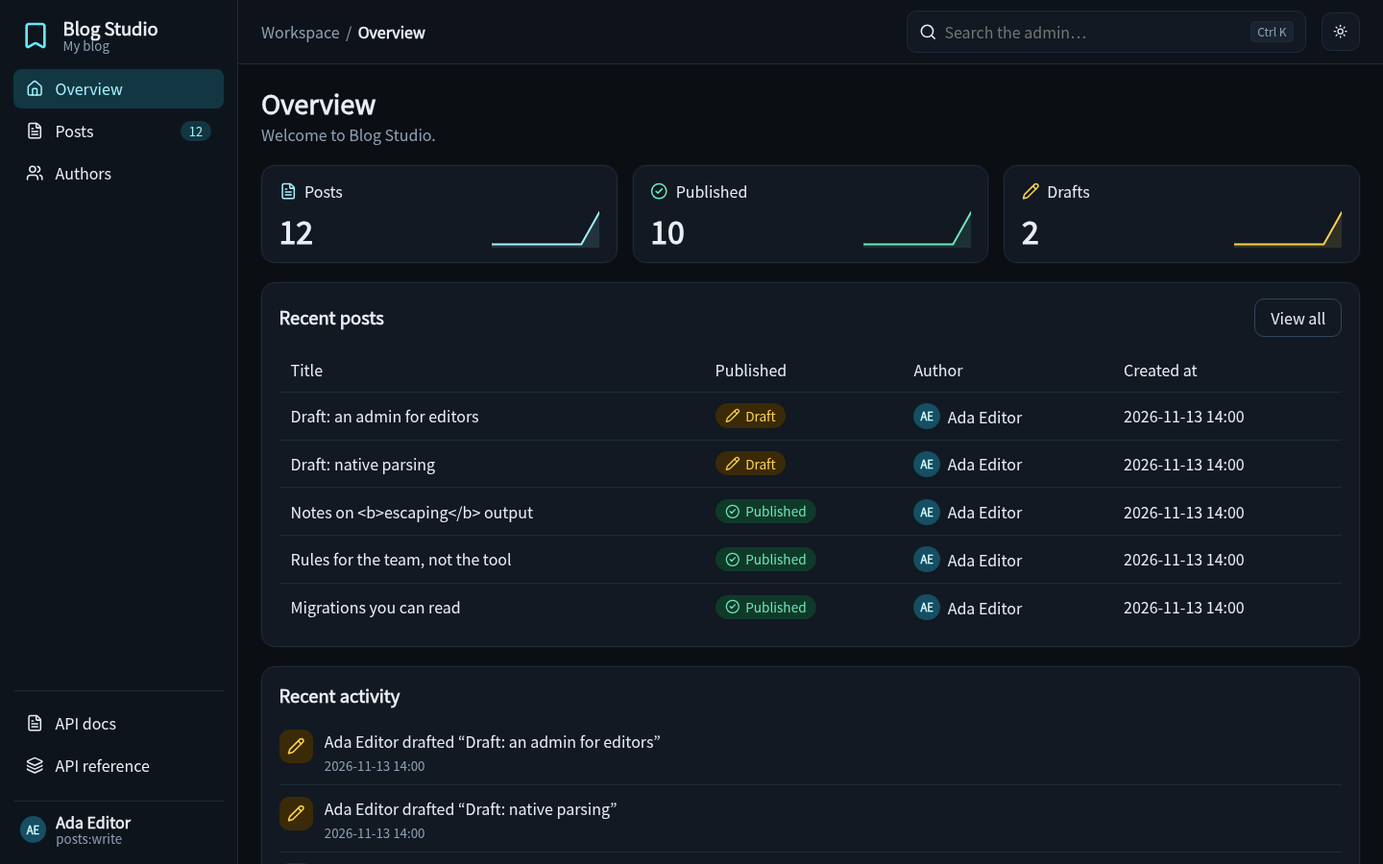
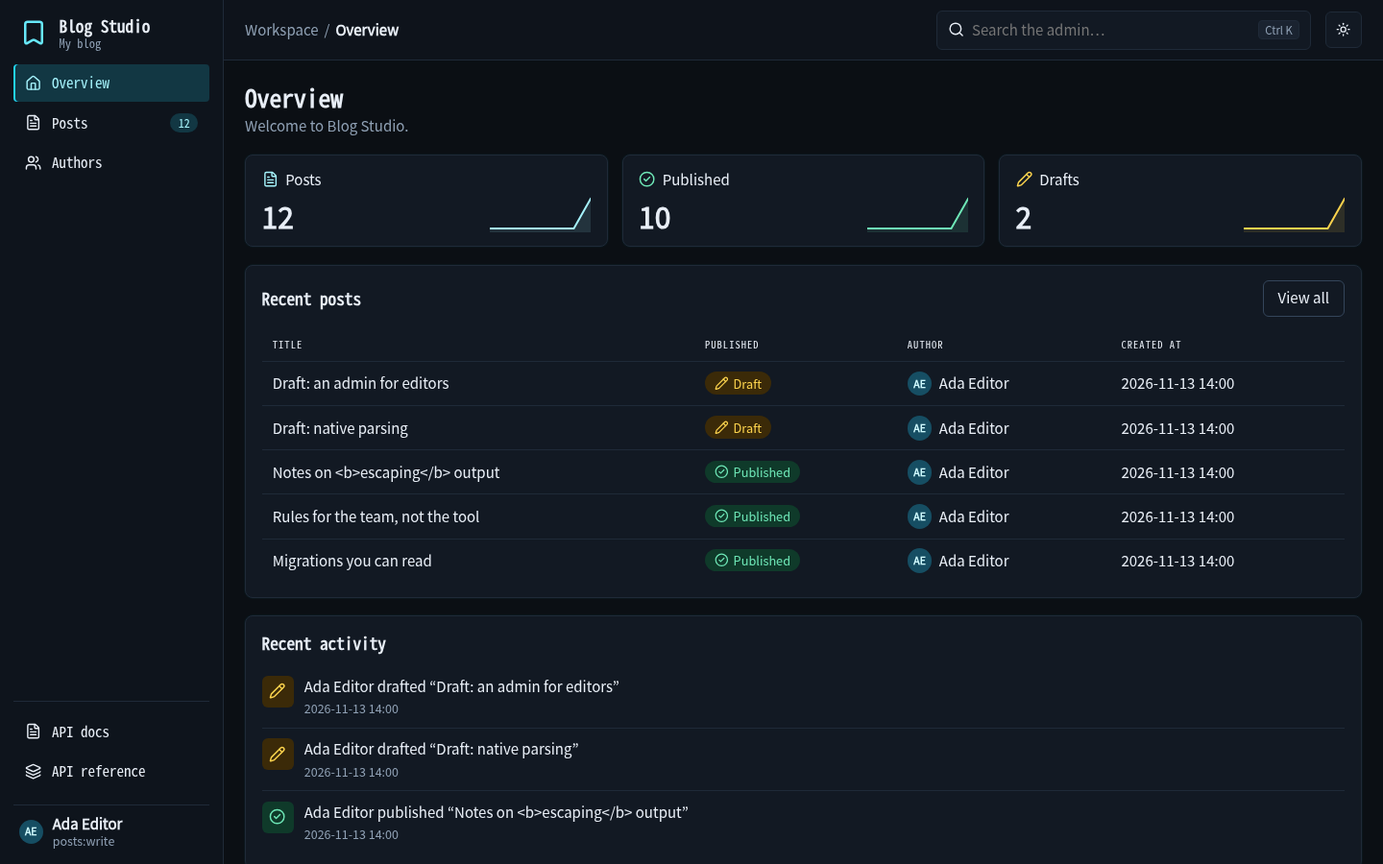
feat(admin): three distinct themes (Studio, Midnight, Paper) with measured contrast
Classic and Compact looked too much like Django's admin; Paper (warm
editorial, serif, hairlines) replaces them and Midnight gets its own
type and shape. tests/themecontrasttest.py checks WCAG AA for every
token pair in every theme and scheme.

diff --git a/python/hinoki/admin/themes.py b/python/hinoki/admin/themes.py
@@ -6,7 +6,9 @@ for a light and a dark scheme (plus optional extra CSS). ``edit`` chooses where
 the edit form opens: ``"drawer"`` (beside the list) or ``"page"``.
 A theme whose ``default_mode`` is ``"dark"`` is dark unless the user switches.
 
-Built in: ``studio`` (default), ``classic``, ``compact``, ``midnight``.
+Built in, three deliberately different looks: ``studio`` (default: soft violet,
+rounded, edit drawer), ``midnight`` (dark, neon cyan, monospaced labels) and
+``paper`` (warm editorial: serif headings, terracotta, hairlines, edit page).
 To make your own, build a ``Theme`` and pass it as ``Admin(theme=...)``.
 """
 
@@ -107,7 +109,7 @@ STUDIO_DARK = {
     "danger": "#ff8a8a", "danger-on": "#2a0b0b", "danger-bg": "#43191b", "danger-ink": "#ffb0b0",
     "focus": "#79b8ff", "avatar-bg": "#4a3380", "avatar-ink": "#e9defb", "shadow": "none",
 }  # fmt: skip
-CLASSIC_LIGHT = {
+NEUTRAL_LIGHT = {
     "bg": "#f4f5f7", "surface": "#ffffff", "surface-2": "#eceef1", "sidebar-bg": "#ffffff",
     "topbar-bg": "#ffffff", "text": "#1c2430", "muted": "#566070", "line": "#dde1e6",
     "line-strong": "#b8c0ca", "hover": "#f0f2f5", "accent": "#1f5fa8", "accent-hover": "#174a85",
@@ -117,28 +119,25 @@ CLASSIC_LIGHT = {
     "danger-ink": "#912018", "focus": "#1a73e8", "avatar-bg": "#c5d6ea", "avatar-ink": "#17406e",
     "shadow": "none",
 }  # fmt: skip
-CLASSIC_DARK = {
-    "bg": "#12161c", "surface": "#1a2029", "surface-2": "#222a35", "sidebar-bg": "#1a2029",
-    "topbar-bg": "#1a2029", "text": "#e6eaf0", "muted": "#9aa5b4", "line": "#2c3542",
-    "line-strong": "#425063", "hover": "#202833", "accent": "#6aa7ea", "accent-hover": "#8fbdf2",
-    "accent-ink": "#08203a", "accent-text": "#8fbdf2", "accent-soft": "#1f3552",
-    "accent-soft-ink": "#cfe3fb", "ok-bg": "#153a26", "ok-ink": "#86e0a8", "warn-bg": "#3a2b0c",
-    "warn-ink": "#f2c46e", "danger": "#f28b82", "danger-on": "#3a0d0a", "danger-bg": "#411a17",
-    "danger-ink": "#ffb4ac", "focus": "#8ab4f8", "avatar-bg": "#2f4f7a", "avatar-ink": "#d6e6fb",
+PAPER_LIGHT = {
+    "bg": "#f6f0e4", "surface": "#fffdf8", "surface-2": "#efe7d6", "sidebar-bg": "#efe6d3",
+    "topbar-bg": "#f6f0e4", "text": "#2b2118", "muted": "#6b5a47", "line": "#ddd0b8",
+    "line-strong": "#b9a888", "hover": "#ede3cf", "accent": "#b4441f", "accent-hover": "#963716",
+    "accent-ink": "#ffffff", "accent-text": "#963716", "accent-soft": "#f4dccf",
+    "accent-soft-ink": "#7a2c10", "ok-bg": "#e1ecd2", "ok-ink": "#2f5a14", "warn-bg": "#f6e3b4",
+    "warn-ink": "#6b4300", "danger": "#a82020", "danger-on": "#ffffff", "danger-bg": "#f8dcd6",
+    "danger-ink": "#8a1a1a", "focus": "#1d4ed8", "avatar-bg": "#e3c4a8", "avatar-ink": "#6a2a10",
     "shadow": "none",
 }  # fmt: skip
-COMPACT_LIGHT = {
-    **CLASSIC_LIGHT, "bg": "#f2f5f5", "surface-2": "#e8eeee", "line": "#d8e0e0",
-    "line-strong": "#b4c2c2", "hover": "#eaf1f1", "accent": "#0f766e", "accent-hover": "#0b5f58",
-    "accent-text": "#0b5f58", "accent-soft": "#d3ece9", "accent-soft-ink": "#0b4f49",
-    "avatar-bg": "#b8dedb", "avatar-ink": "#0b4f49",
-}  # fmt: skip
-COMPACT_DARK = {
-    **CLASSIC_DARK, "bg": "#0f1616", "surface": "#162020", "surface-2": "#1d2a2a",
-    "sidebar-bg": "#162020", "topbar-bg": "#162020", "line": "#263636", "line-strong": "#3a5252",
-    "hover": "#1b2929", "accent": "#4fd1c5", "accent-hover": "#7ee3d9", "accent-ink": "#06201d",
-    "accent-text": "#7ee3d9", "accent-soft": "#17403c", "accent-soft-ink": "#c4f1ec",
-    "avatar-bg": "#1f5a54", "avatar-ink": "#d3f5f1",
+PAPER_DARK = {
+    "bg": "#1d1812", "surface": "#26201a", "surface-2": "#302820", "sidebar-bg": "#221c16",
+    "topbar-bg": "#1d1812", "text": "#f1e8d8", "muted": "#b7a88f", "line": "#3b3227",
+    "line-strong": "#54483a", "hover": "#2d251d", "accent": "#e9895f", "accent-hover": "#f1a07d",
+    "accent-ink": "#2a1206", "accent-text": "#f1a07d", "accent-soft": "#4a2a1b",
+    "accent-soft-ink": "#f7d2bf", "ok-bg": "#20331a", "ok-ink": "#a6d98a", "warn-bg": "#3d2e10",
+    "warn-ink": "#f0cb7a", "danger": "#f19a8e", "danger-on": "#330c08", "danger-bg": "#46201b",
+    "danger-ink": "#ffc0b6", "focus": "#8ab4f8", "avatar-bg": "#6a3b24", "avatar-ink": "#f7d9c6",
+    "shadow": "none",
 }  # fmt: skip
 MIDNIGHT_DARK = {
     "bg": "#0b0f14", "surface": "#121923", "surface-2": "#1a2330", "sidebar-bg": "#0e141c",
@@ -151,7 +150,7 @@ MIDNIGHT_DARK = {
     "shadow": "0 0 0 1px rgba(34,211,238,.04)",
 }  # fmt: skip
 MIDNIGHT_LIGHT = {
-    **CLASSIC_LIGHT, "bg": "#eef3f8", "sidebar-bg": "#0e141c", "accent": "#0e7490",
+    **NEUTRAL_LIGHT, "bg": "#eef3f8", "sidebar-bg": "#e3eaf2", "accent": "#0e7490",
     "accent-hover": "#155e75", "accent-text": "#155e75", "accent-soft": "#cdeff7",
     "accent-soft-ink": "#0b4a5c", "avatar-bg": "#b6e3ee", "avatar-ink": "#0b4a5c",
 }  # fmt: skip
@@ -165,40 +164,39 @@ STUDIO = Theme(
     },
     extra_css=".hn-avatar{width:2rem;height:2rem;font-size:.75rem}\n.hn-nav-item{font-weight:500}\n",
 )  # fmt: skip
-CLASSIC = Theme(
-    "classic", "Classic", "page", CLASSIC_LIGHT, CLASSIC_DARK,
+PAPER = Theme(
+    "paper", "Paper", "page", PAPER_LIGHT, PAPER_DARK,
     {
-        "font": SYSTEM_FONT, "font-size": "16px", "radius": "4px", "radius-sm": "3px",
-        "radius-lg": "4px", "nav-pad": ".5rem .75rem", "cell-pad": ".6rem .75rem",
-        "h1": "1.5rem", "sidebar-w": "15rem", "drawer-w": "26rem",
-    },
-    extra_css=".hn-card{box-shadow:none}\n.hn-table th{background:var(--hn-surface-2)}\n",
-)  # fmt: skip
-COMPACT = Theme(
-    "compact", "Compact", "page", COMPACT_LIGHT, COMPACT_DARK,
-    {
-        "font": SYSTEM_FONT, "font-size": "14px", "radius": "3px", "radius-sm": "2px",
-        "radius-lg": "3px", "nav-pad": ".35rem .6rem", "cell-pad": ".3rem .6rem",
-        "h1": "1.3rem", "sidebar-w": "12.5rem", "drawer-w": "22rem",
+        "font": SYSTEM_FONT, "font-size": "16px", "radius": "2px", "radius-sm": "2px",
+        "radius-lg": "2px", "nav-pad": ".5rem .9rem", "cell-pad": ".75rem .9rem",
+        "h1": "2.1rem", "sidebar-w": "15rem", "drawer-w": "26rem",
     },
     extra_css=(
-        ".hn-table tbody tr:nth-child(even){background:var(--hn-surface-2)}\n"
-        ".hn-main{padding:1rem;gap:.9rem}\n.hn-btn{min-height:2rem;padding:.25rem .7rem}\n"
-        ".hn-iconbtn{width:2rem;height:2rem}\n.hn-stat-value{font-size:1.5rem}\n"
+        'h1,h2,h3,.hn-brand{font-family:Georgia,"Iowan Old Style","Times New Roman",serif;'
+        "font-weight:600;letter-spacing:-.01em}\n"
+        ".hn-card{box-shadow:none;border-width:1px 0}\n"
+        ".hn-table th{text-transform:uppercase;font-size:.72rem;letter-spacing:.08em;"
+        "background:transparent;border-bottom:2px solid var(--hn-line-strong)}\n"
     ),
 )  # fmt: skip
 MIDNIGHT = Theme(
     "midnight", "Midnight", "drawer", MIDNIGHT_LIGHT, MIDNIGHT_DARK,
     {
-        "font": SYSTEM_FONT, "font-size": "16px", "radius": "10px", "radius-sm": "8px",
-        "radius-lg": "14px", "nav-pad": ".55rem .8rem", "cell-pad": ".65rem .75rem",
+        "font": SYSTEM_FONT, "font-size": "15px", "radius": "6px", "radius-sm": "4px",
+        "radius-lg": "8px", "nav-pad": ".55rem .8rem", "cell-pad": ".65rem .75rem",
         "h1": "1.7rem", "sidebar-w": "15.5rem", "drawer-w": "25rem",
     },
     default_mode="dark",
-    extra_css=".hn-primary{box-shadow:0 0 18px rgba(34,211,238,.25)}\n",
+    extra_css=(
+        ".hn-primary{box-shadow:0 0 18px rgba(34,211,238,.25)}\n"
+        'h1,h2,h3,.hn-brand,.hn-table th,.hn-nav-item{font-family:ui-monospace,"JetBrains Mono",'
+        "Menlo,Consolas,monospace}\n"
+        ".hn-table th{text-transform:uppercase;font-size:.7rem;letter-spacing:.1em}\n"
+        ".hn-nav-item[aria-current=page]{box-shadow:inset 2px 0 var(--hn-accent)}\n"
+    ),
 )  # fmt: skip
 
-THEMES: dict[str, Theme] = {t.name: t for t in (STUDIO, CLASSIC, COMPACT, MIDNIGHT)}
+THEMES: dict[str, Theme] = {t.name: t for t in (STUDIO, MIDNIGHT, PAPER)}
 for built_in in THEMES.values():
     built_in.check()
 

diff --git a/tests/themecontrasttest.py b/tests/themecontrasttest.py
@@ -1,0 +1,60 @@
+"""WCAG contrast of every theme's text/background pairs, light and dark."""
+
+import re
+
+import pytest
+
+from hinoki.admin.themes import THEMES, Theme
+
+AA = 4.5
+HEX = re.compile(r"#[0-9a-fA-F]{6}")
+PAIRS = [
+    ("text", "bg"), ("text", "surface"), ("text", "surface-2"), ("text", "sidebar-bg"),
+    ("text", "hover"), ("muted", "bg"), ("muted", "surface"), ("muted", "sidebar-bg"),
+    ("accent-ink", "accent"), ("accent-ink", "accent-hover"), ("accent-text", "bg"),
+    ("accent-text", "surface"), ("accent-soft-ink", "accent-soft"),
+    ("ok-ink", "ok-bg"), ("warn-ink", "warn-bg"), ("danger-ink", "danger-bg"),
+    ("danger-on", "danger"), ("avatar-ink", "avatar-bg"), ("text", "accent-soft"),
+]  # fmt: skip
+
+
+def luminance(color: str) -> float:
+    channels = [int(color[i : i + 2], 16) / 255 for i in (1, 3, 5)]
+    linear = [
+        c / 12.92 if c <= 0.03928 else ((c + 0.055) / 1.055) ** 2.4 for c in channels
+    ]
+    return 0.2126 * linear[0] + 0.7152 * linear[1] + 0.0722 * linear[2]
+
+
+def contrast(a: str, b: str) -> float:
+    high, low = sorted((luminance(a), luminance(b)), reverse=True)
+    return (high + 0.05) / (low + 0.05)
+
+
+def colors(value: str) -> list[str]:
+    """The hex colours in a token (a gradient has several stops)."""
+    return HEX.findall(value)
+
+
+def failures(theme: Theme, scheme: str) -> list[str]:
+    tokens = theme.light if scheme == "light" else theme.dark
+    found = []
+    for foreground, background in PAIRS:
+        for fg in colors(tokens[foreground]):
+            for bg in colors(tokens[background]):
+                ratio = contrast(fg, bg)
+                if ratio < AA:
+                    found.append(f"{foreground} {fg} on {background} {bg}: {ratio:.2f}")
+    return found
+
+
+@pytest.mark.parametrize("scheme", ["light", "dark"])
+@pytest.mark.parametrize("name", sorted(THEMES))
+def test_every_pair_reaches_wcag_aa(name: str, scheme: str) -> None:
+    assert failures(THEMES[name], scheme) == []
+
+
+def test_the_formula_matches_published_values() -> None:
+    assert round(contrast("#000000", "#ffffff"), 2) == 21.0
+    assert round(contrast("#777777", "#ffffff"), 2) == 4.48  # the well-known near miss
+    assert contrast("#123456", "#123456") == 1.0

diff --git a/tests/admintest.py b/tests/admintest.py
@@ -131,16 +131,16 @@ def test_application_templates_and_css_override_the_built_in_set(
     (tmp_path / "components").mkdir()
     (tmp_path / "components" / "empty.html").write_text("<i>{{ message }}</i>")
     (tmp_path / "admin.css").write_text("/* mine */")
-    templates = Templates(tmp_path, "classic")
+    templates = Templates(tmp_path, "paper")
     assert templates.render("empty", message="x") == "<i>x</i>"
     assert "hn-table" in templates.sources["table"]  # the rest stays built in
     css = templates.stylesheet().decode()
     assert css.index("--hn-accent") < css.index("/* mine */")  # the app css wins last
-    assert 'data-theme="classic"' in css and "prefers-color-scheme: dark" in css
+    assert 'data-theme="paper"' in css and "prefers-color-scheme: dark" in css
 
 
-def test_four_themes_share_the_component_set_and_validate() -> None:
-    assert set(THEMES) == {"studio", "classic", "compact", "midnight"}
+def test_three_themes_share_the_component_set_and_validate() -> None:
+    assert set(THEMES) == {"studio", "midnight", "paper"}
     assert {t.edit for t in THEMES.values()} == {"drawer", "page"}
     for name in THEMES:
         css = Templates(theme=name).stylesheet().decode()
@@ -156,9 +156,9 @@ def test_four_themes_share_the_component_set_and_validate() -> None:
         "mine",
         "Mine",
         "page",
-        THEMES["classic"].light,
-        THEMES["classic"].dark,
-        THEMES["classic"].fixed,
+        THEMES["paper"].light,
+        THEMES["paper"].dark,
+        THEMES["paper"].fixed,
     )
     assert 'data-theme="mine"' in Templates(theme=custom).stylesheet().decode()
 
@@ -621,13 +621,13 @@ async def test_edit_opens_beside_the_list_in_drawer_themes_and_on_a_page_otherwi
         and "hn-table" in drawer.body
         and 'class="is-open"' in drawer.body
     )
-    page = await (await pool.start(build("classic"))).request(
+    page = await (await pool.start(build("paper"))).request(
         "GET", f"/admin/notes/{key}", headers=STAFF
     )
     assert (
         "hn-drawer" not in page.body
         and "hn-page-form" in page.body
-        and 'data-theme="classic"' in page.body
+        and 'data-theme="paper"' in page.body
     )
 
 

diff --git a/handoff.md b/handoff.md
@@ -20,8 +20,8 @@ Brand: `assets/hinoki-identity-approved.png` unchanged; `hinoki-banner.png` / `h
 | Q008 | Request object, parsers, renderers (Rust) | **Done.** S1 design, **S2 done** (Python `Request`, request-first handlers), **S3 done** (Rust query/cookie/header parsing, JSON decode/encode; `benchmarks/requestbench.py`). **S4 done** (JSON/form/multipart parsers, `parsers=`, Rust multipart). **S5 done** (renderers, Rust `Accept` negotiation, 406). S6 decided not to build (measured, `benchmarks/README.md`). **S7 done**: independent review, 10 findings fixed with regressions. **Q008 complete.** |
 | Q006 | Rules and development MCP | **Made visible 2026-11-13 (owner: "nothing visible for the rules feature"):** the blog enables four rules (`examples/blog/rules.py`, checked at startup and by `tests/blogrulestest.py`), user guide `docs/RULES.md`, README section with real output. R1 design, R2 startup rules, R3 static imports, R4 waivers + `check` CLI, R5 development MCP, **R6 independent review done** (18 findings fixed with regressions). **Q006 complete**; the MCP is untested against a real client. |
 | Q007 | Admin extra | A1 design, A2 (`Reply`/`HTMLRenderer`), A3 (templates + Classic theme), A4 (`Admin`/`ModelAdmin`, CSRF, CRUD pages) done. **A5 done** (blog admin, Swagger UI + ReDoc, real-browser verification in Chromium and Firefox, WebKit not verifiable here, screenshots in `docs/screenshots/`). A6 (independent review) open. First slice: Classic theme, list/create/edit/delete, CSRF, overrides; no login UI. |
-| Q013 | Admin Studio look and four themes | **Owner request 2026-11-13, active.** The admin must look like the owner's reference (`~/Downloads/Dashboard Blog Studio con editor articoli.png`): lilac sidebar with icons and counts, top bar with breadcrumb and search, stat cards, table with status badges/avatars/selection, edit drawer on the right with collapsible sections. Needs a base component template set shared by **at least four themes** (Studio, Classic, Compact, Midnight), Lucide icons, hooks on `ModelAdmin` for what the picture shows (badges, tabs, stats, activity, fieldsets, FK selects). Elements that need features that do not exist (notifications, rich-text editor, tag chips, audit log) are not faked. **State: implemented** (base components in `admin/ui/components`, four themes in `themes.py`, Lucide sprite, signed CSRF, the A6 review findings fixed, module split, 25 admin tests, screenshots in the README). `tests/browser/verify.py` rewritten for the new markup and **run on 2026-11-13: 0 failures in Chromium and Firefox** (it found and I fixed horizontal page scroll at phone widths). **Second independent review done** (2 high, 5 medium, 5 low): fixed with regressions in `tests/adminreviewtest.py` — FK selects only list rows of a registered, viewable related admin and the server re-checks the choice, `exclude`d columns are never listed/titled/sortable, NUL/out-of-range keys and search text are 404/ignored instead of 500, bulk delete is all-or-nothing, route `response_headers` now reach framework error answers, docs pages that shadow a route fail at startup, blog stats no longer load every post. Not fixed (documented limits): CSRF cookie tossing can deny a form post (no forgery), tokens never expire, `check()` sees only changed fields, `can()` is evaluated before the write. Theme guide written (`docs/ADMIN-DESIGN.md`, "Theme guide"). Still open: WebKit run on a host that can start it; contrast measurement of the themes. |
-| Q014 | Schema and serialisation in Rust (and a name of our own) | **Owner request 2026-11-13, queued.** All schema validation and serialisation (today pure Python: `validation.py`, `schema.py`, `fieldtypes.py`) moves to the Rust core; use `Schema` everywhere and dataclasses only where genuinely needed. The owner also allows renaming `Schema`, since other frameworks use the word: **proposal: `Contract`** (the spec already speaks of "contratti tipizzati"), keeping `Schema` as an alias during migration; decide at design time. **Design: `docs/SCHEMA-RUST-DESIGN.md`. N1 done; N2 done (Rust `CompiledSchema` validates and builds instances; Python engine kept as oracle in `tests/oracle`; differential suite `tests/schemadifftest.py` found one divergence, root `null`, fixed; benchmark 2.0× faster, `benchmarks/schemabench.py`). **N3 done** (native `encode_json` for Schema/UUID/datetime/`dump()` objects, renderers declare `consumes_objects`; 2.1× faster). **N5 independent review done** (1 high: an overridden `dump()` was ignored by the native serialiser — fixed; 1 medium: Rust-incompatible patterns now fail at class creation with `RegistrationError`; 5 low, fixed or documented in the design). `Schema.dump()` stays the Python JSON-compatible form (native `dump()` = open item N3b). Open: N3b native `dump`/`to_dict`, N4 docs pass, N6: `Contract` is now an alias of `Schema` exported from `hinoki` (non-breaking); making it the canonical name in the docs/examples is left to the owner's choice.** Original brief: compile a schema once into a Rust validator (field kinds, constraints, nesting, `UNSET`, strict no-coercion rules, capped path-aware errors), build Python instances from validated data, serialise handler output/`dump()`/`to_dict()` natively, keep mypy-visible Python class declarations, measure against the current engine (`benchmarks/`), differential tests against the Python implementation, independent review. |
+| Q013 | Admin Studio look and three themes | **Owner request 2026-11-13, active.** The admin must look like the owner's reference (`~/Downloads/Dashboard Blog Studio con editor articoli.png`): lilac sidebar with icons and counts, top bar with breadcrumb and search, stat cards, table with status badges/avatars/selection, edit drawer on the right with collapsible sections. Needs a base component template set shared by **at least three distinct themes** (revised 2026-11-13: Classic/Compact looked too Django, replaced by Studio, Midnight, Paper), Lucide icons, hooks on `ModelAdmin` for what the picture shows (badges, tabs, stats, activity, fieldsets, FK selects). Elements that need features that do not exist (notifications, rich-text editor, tag chips, audit log) are not faked. **State: implemented** (base components in `admin/ui/components`, three themes in `themes.py` (Studio, Midnight, Paper; Classic/Compact removed), contrast measured by `tests/themecontrasttest.py` (all AA), Lucide sprite, signed CSRF, the A6 review findings fixed, module split, 25 admin tests, screenshots in the README). `tests/browser/verify.py` rewritten for the new markup and **run on 2026-11-13: 0 failures in Chromium and Firefox** (it found and I fixed horizontal page scroll at phone widths). **Second independent review done** (2 high, 5 medium, 5 low): fixed with regressions in `tests/adminreviewtest.py` — FK selects only list rows of a registered, viewable related admin and the server re-checks the choice, `exclude`d columns are never listed/titled/sortable, NUL/out-of-range keys and search text are 404/ignored instead of 500, bulk delete is all-or-nothing, route `response_headers` now reach framework error answers, docs pages that shadow a route fail at startup, blog stats no longer load every post. Not fixed (documented limits): CSRF cookie tossing can deny a form post (no forgery), tokens never expire, `check()` sees only changed fields, `can()` is evaluated before the write. Theme guide written (`docs/ADMIN-DESIGN.md`, "Theme guide"). Still open: WebKit run on a host that can start it; contrast measurement of the themes. |
+| Q014 | Schema and serialisation in Rust (and a name of our own) | **Owner request 2026-11-13, queued.** All schema validation and serialisation (today pure Python: `validation.py`, `schema.py`, `fieldtypes.py`) moves to the Rust core; use `Schema` everywhere and dataclasses only where genuinely needed. The owner also allows renaming `Schema`, since other frameworks use the word: **proposal: `Contract`** (the spec already speaks of "contratti tipizzati"), keeping `Schema` as an alias during migration; decide at design time. **Design: `docs/SCHEMA-RUST-DESIGN.md`. N1 done; N2 done (Rust `CompiledSchema` validates and builds instances; Python engine kept as oracle in `tests/oracle`; differential suite `tests/schemadifftest.py` found one divergence, root `null`, fixed; benchmark 2.0× faster, `benchmarks/schemabench.py`). **N3 done** (native `encode_json` for Schema/UUID/datetime/`dump()` objects, renderers declare `consumes_objects`; 2.1× faster). **N5 independent review done** (1 high: an overridden `dump()` was ignored by the native serialiser — fixed; 1 medium: Rust-incompatible patterns now fail at class creation with `RegistrationError`; 5 low, fixed or documented in the design). `Schema.dump()` stays the Python JSON-compatible form (native `dump()` = open item N3b). Open: N3b native `dump`/`to_dict`, N4 docs pass, N6: `Contract` is now an alias of `Schema` exported from `hinoki` (non-breaking); making it the canonical name in the docs/examples is left to the owner's choice.** Original brief: compile a schema once into a Rust validator (field kinds, constraints, nesting, `UNSET`, strict no-coercion rules, capped path-aware errors), build Python instances from validated data, serialise handler output/`dump()`/`to_dict()` natively, keep mypy-visible Python class declarations, measure against the current engine (`benchmarks/`), differential tests against the Python implementation, independent review. | **N3b done 2026-11-13:** `Schema.dump()` and `to_dict()` now run in Rust (`native.dump_instance`, shared walk with the encoder, custom `dump()` honoured, depth cap 1000).
 | Q015 | Naming: `Principal` and `scopes` | **Done 2026-11-13** (owner: "ok continua" after the proposal). `Caller` is the class (`id`, `user`, `permissions`), `Access(auth, permissions=[...])`; `Principal`, `subject`, `identity`, `scopes` and `Access(scopes=...)` are accepted as aliases. Code, tests, examples, docs and the MCP output (`permissions`) migrated; `Diagnostic.subject` (rules) is a different concept and keeps its name. Open: decide when to deprecate the aliases (a warning) and remove them. |
 | Q009 | Schema ergonomics and examples | **Owner request 2026-11-13, queued.** Methods on `Schema` so common code is short: `Model.acreate(schema)` / `await Post.acreate(**data.dump())` style (`dump()`, `dump(exclude_unset=True)`, `Schema.from_model(row)`, `update_from(schema)` that skips `UNSET`), model-to-schema conversion without hand-written `to_out` helpers, typed so mypy keeps working (see `docs/TYPING.md` on `acreate(**values)`). **State: E1–E4 done** (`to_dict`/`from_model`, `acreate(data, **values)` with server values winning, `from_schema`, `assign`, `aupdate_from`; blog uses `from_model`; new tested `examples/notes`; README quick start). E5 independent review of precedence/mass assignment open. Original brief: then rewrite `examples/blog` and the README snippets around the shorter forms and add a second, smaller example. Design: `docs/SCHEMA-ERGONOMICS-DESIGN.md` (E1 done; E2 `Schema.to_dict`/`from_model` done; E3 model methods, E4 examples/README, E5 review open). |
 | Q010 | AI-assisted backend development | **Owner request 2026-11-13, queued.** Make it easy to build a backend with the framework *using an AI agent*: an `AGENTS.md`/`CLAUDE.md` template generated for new projects (conventions, commands, rule IDs), `python -m hinoki new` scaffolding with the rules and the development MCP preconfigured, MCP tools beyond Q006 (`propose_model`, `explain_error`, scenario runner `run_scenario`), error messages that name the exact fix, and a short "build an API with an agent" guide verified by actually doing it. Builds on Q006 (rules/MCP) and its waiver model: agents cannot weaken rules. **State: first slice done** — `python -m hinoki new NAME` (project with rules on, `AGENTS.md`, `CLAUDE.md`, `.mcp.json`, waiver file, a test; verified by generating and running its `check` and tests), MCP tool `explain_error` + `hinoki/errorcatalog.py`, guide `docs/AI-WORKFLOW.md`. Open: `run_scenario`, model/endpoint proposal tool, application MCP, a run with a real MCP client and a real agent, independent review. |

diff --git a/README.md b/README.md
@@ -149,7 +149,7 @@ Honest status, verified by the test suite:
 | Optional rules (`RuleSet`: access, transaction, schema exposure, static import boundaries), owner waivers, `python -m hinoki check` (text/JSON) | Implemented; runtime and scenario phases not built |
 | Development MCP (`python -m hinoki mcp`): read-only project context over stdio | Implemented; not yet tested against a real MCP client; no application MCP |
 | Interactive API docs: **Swagger UI** and **ReDoc** (`docs_url=`, `redoc_url=`), vendored and served from the package under a strict CSP | Implemented; verified in Chromium and Firefox |
-| Admin extra (`hinoki.admin`): Studio/Classic/Compact/Midnight themes over one base component set, Lucide icons, dashboard stats, tabs, search, sortable paginated lists with badges and avatars, edit drawer or page, FK selects, fieldsets, bulk delete, signed CSRF, per-model `can()`/`queryset()`/`save()` hooks, template and CSS overrides | Implemented; reviewed once (findings fixed in this version). The earlier browser run covered the first version only: the new UI has been looked at in Chromium (screenshots above) but `tests/browser/verify.py` still targets the old markup and has **not** been re-run, and WebKit has never started here. No login UI, no rich-text or tag widgets, no audit log |
+| Admin extra (`hinoki.admin`): Studio/Midnight/Paper themes over one base component set, Lucide icons, dashboard stats, tabs, search, sortable paginated lists with badges and avatars, edit drawer or page, FK selects, fieldsets, bulk delete, signed CSRF, per-model `can()`/`queryset()`/`save()` hooks, template and CSS overrides | Implemented; reviewed once (findings fixed in this version). The earlier browser run covered the first version only: the new UI has been looked at in Chromium (screenshots above) but `tests/browser/verify.py` still targets the old markup and has **not** been re-run, and WebKit has never started here. No login UI, no rich-text or tag widgets, no audit log |
 | `python -m hinoki new` scaffolds a project with rules on, `AGENTS.md` and the MCP configured; `explain_error` tool ([guide](docs/AI-WORKFLOW.md)) | Implemented; not yet exercised with a real MCP client or agent |
 | JWT, benchmarks beyond micro-benchmarks | Not started |
 | `Request` as the first handler argument (`method`, `headers`, `GET`, `COOKIES`, `body`, `data`, `user`) | Implemented; query, cookie and header parsing and JSON decode/encode run in Rust (modest measured gain for JSON, larger for query strings: [benchmarks](benchmarks/README.md)) |
@@ -194,19 +194,23 @@ Taken from the reference blog (`examples/blog`) with real browsers (`tests/brows
 | --- | --- |
 | ![Swagger UI showing the blog API](docs/screenshots/swagger.png) | ![ReDoc showing the blog API](docs/screenshots/redoc.png) |
 
-The admin has four themes built on one set of base components (Studio is the default; Classic, Compact and Midnight restyle the same pages through design tokens):
+The admin has three deliberately different themes built on one set of base components (Studio is the default; Midnight and Paper restyle the same pages through design tokens, fonts and a little CSS):
 
 | Studio: dashboard | Studio: edit drawer |
 | --- | --- |
 | ![Studio theme dashboard with stat cards and recent posts](docs/screenshots/admin-studio-dashboard.png) | ![Studio theme with the edit drawer beside the list](docs/screenshots/admin-studio-edit.png) |
 
-| Classic | Compact |
+| Midnight: dashboard | Midnight: list |
 | --- | --- |
-| ![Classic theme list](docs/screenshots/admin-classic-list.png) | ![Compact theme list](docs/screenshots/admin-compact-list.png) |
+| ![Midnight theme dashboard](docs/screenshots/admin-midnight-dashboard.png) | ![Midnight theme list](docs/screenshots/admin-midnight-list.png) |
 
-| Midnight | Studio on a phone (390 px) |
+| Paper: dashboard | Paper: list |
 | --- | --- |
-| ![Midnight theme dashboard](docs/screenshots/admin-midnight-dashboard.png) | ![Studio theme on a phone](docs/screenshots/admin-studio-phone.png) |
+| ![Paper theme dashboard](docs/screenshots/admin-paper-dashboard.png) | ![Paper theme list](docs/screenshots/admin-paper-list.png) |
+
+| Studio on a phone (390 px) |
+| --- |
+| ![Studio theme on a phone](docs/screenshots/admin-studio-phone.png) |
 
 Try it: create a disposable PostgreSQL database, then
 
@@ -216,7 +220,7 @@ uv run python -m examples.blog.seed          # migrations + synthetic users and 
 uv run granian --interface asgi --factory examples.blog.main:create_app
 # API docs:  http://127.0.0.1:8000/docs  and  /redoc
 # Admin:     http://127.0.0.1:8000/admin  (send the cookie blog_token=demo-editor-token;
-#            set BLOG_ADMIN_SECRET (32+ bytes) and optionally BLOG_ADMIN_THEME=studio|classic|compact|midnight)
+#            set BLOG_ADMIN_SECRET (32+ bytes) and optionally BLOG_ADMIN_THEME=studio|midnight|paper)
 ```
 
 ## Core concepts
